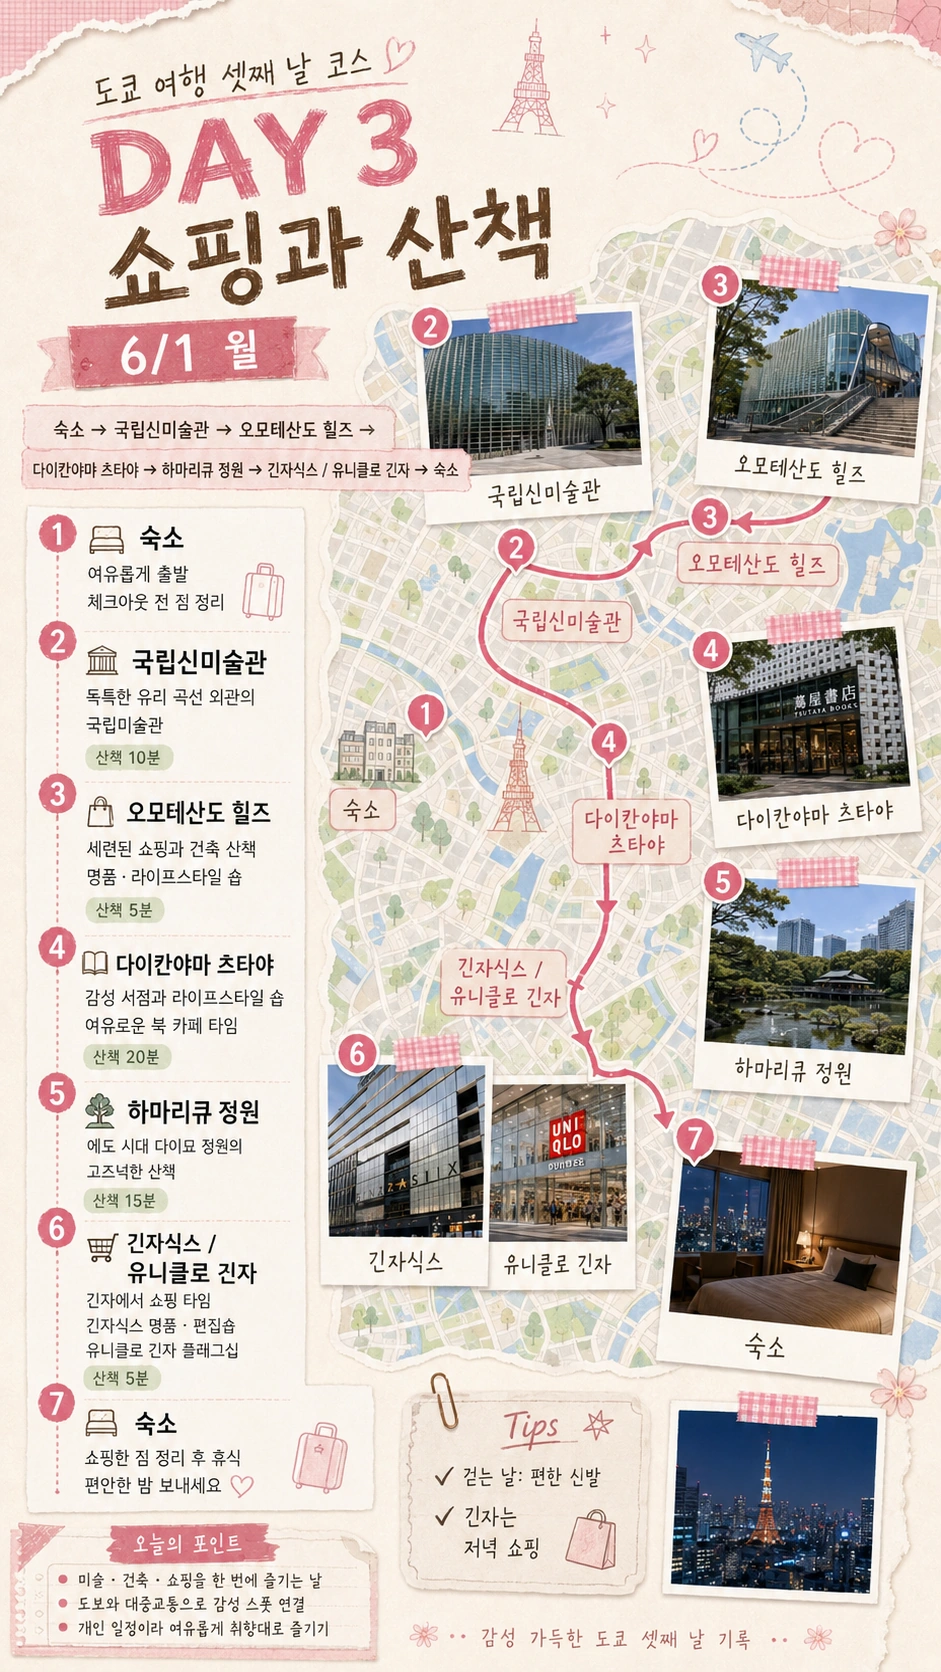
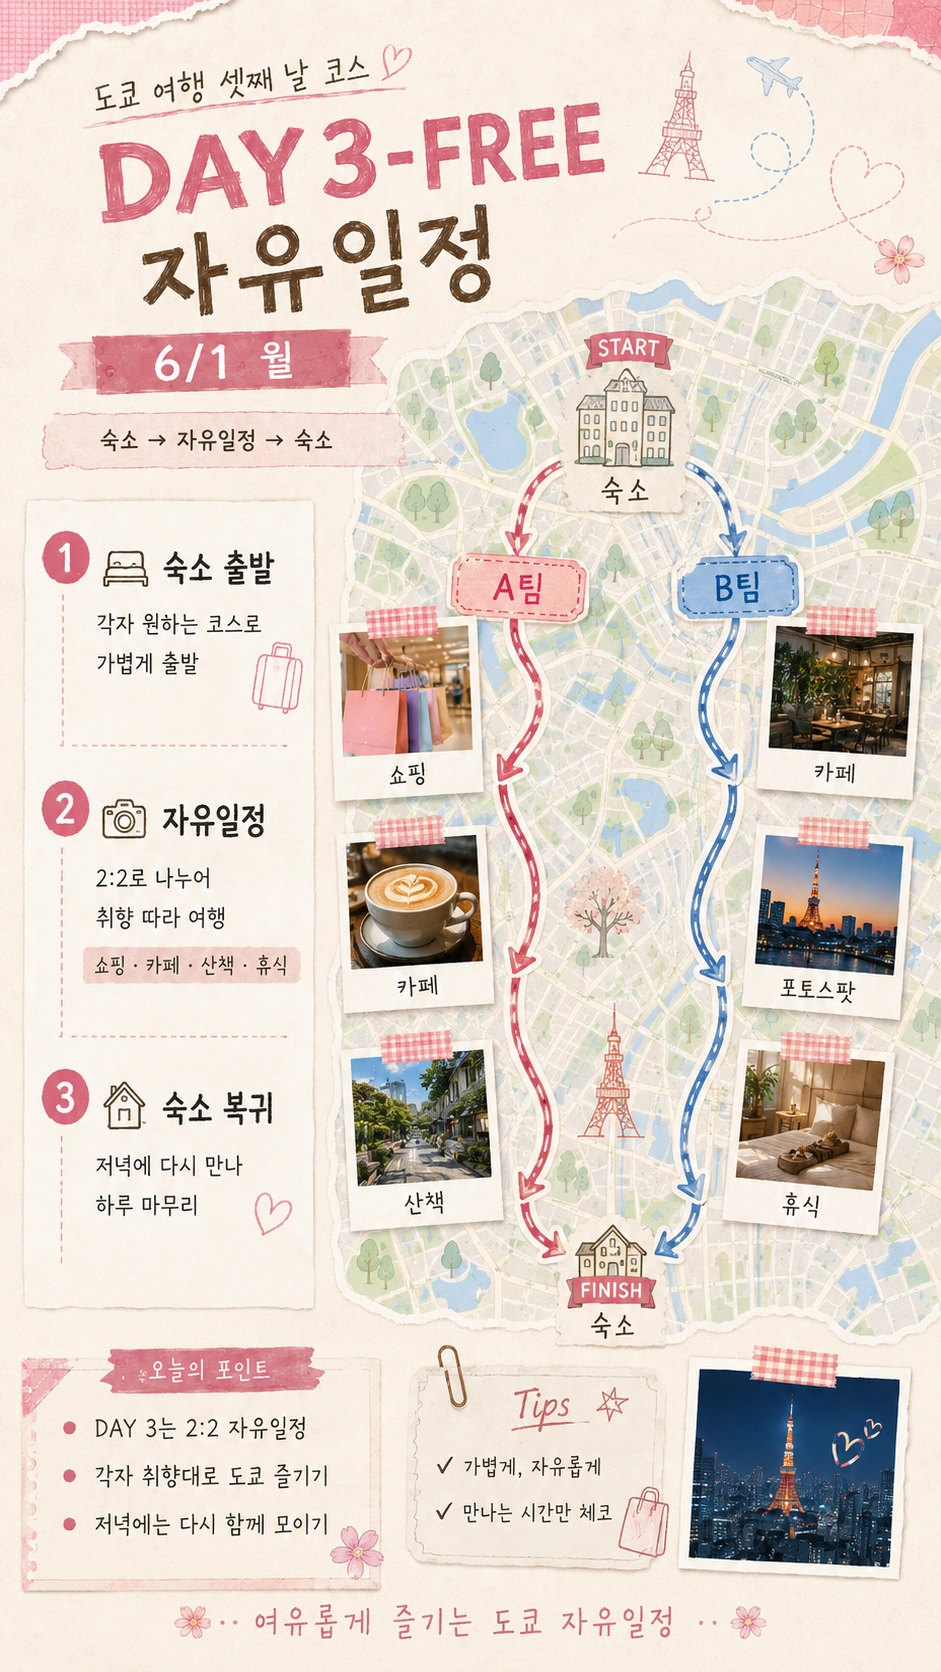
Make day 3 a private free day

diff --git a/index.html b/index.html
@@ -1101,20 +1101,6 @@
       harryEmbed: "https://maps.google.com/maps?q=Warner%20Bros.%20Studio%20Tour%20Tokyo&z=15&output=embed",
       shibuyaSky: "https://www.google.com/maps/search/?api=1&query=SHIBUYA+SKY",
       shibuyaSkyEmbed: "https://maps.google.com/maps?q=SHIBUYA%20SKY&z=16&output=embed",
-      nact: "https://www.google.com/maps/search/?api=1&query=The+National+Art+Center+Tokyo",
-      nactEmbed: "https://maps.google.com/maps?q=The%20National%20Art%20Center%20Tokyo&z=16&output=embed",
-      omotesandoHills: "https://www.google.com/maps/search/?api=1&query=Omotesando+Hills",
-      omotesandoHillsEmbed: "https://maps.google.com/maps?q=Omotesando%20Hills&z=16&output=embed",
-      daikanyamaTsutaya: "https://www.google.com/maps/search/?api=1&query=Daikanyama+T-SITE+Tsutaya+Books",
-      daikanyamaTsutayaEmbed: "https://maps.google.com/maps?q=Daikanyama%20T-SITE%20Tsutaya%20Books&z=16&output=embed",
-      hamarikyu: "https://www.google.com/maps/search/?api=1&query=Hama-rikyu+Gardens",
-      hamarikyuEmbed: "https://maps.google.com/maps?q=Hama-rikyu%20Gardens&z=16&output=embed",
-      ginza: "https://www.google.com/maps/search/?api=1&query=Ginza+Tokyo+shopping",
-      ginzaEmbed: "https://maps.google.com/maps?q=Ginza%20Tokyo&z=14&output=embed",
-      ginzaSix: "https://www.google.com/maps/search/?api=1&query=GINZA+SIX",
-      ginzaSixEmbed: "https://maps.google.com/maps?q=GINZA%20SIX&z=16&output=embed",
-      uniqloGinza: "https://www.google.com/maps/search/?api=1&query=UNIQLO+Ginza",
-      uniqloGinzaEmbed: "https://maps.google.com/maps?q=UNIQLO%20Ginza&z=16&output=embed",
       nezuMuseum: "https://www.google.com/maps/search/?api=1&query=Nezu+Museum",
       nezuMuseumEmbed: "https://maps.google.com/maps?q=Nezu%20Museum&z=16&output=embed",
       nezuCafe: "https://www.google.com/maps/search/?api=1&query=Nezu+Cafe+Tokyo",
@@ -1127,9 +1113,6 @@
       day2All: "https://www.google.com/maps/dir/?api=1&origin=Comfort+Inn+Tokyo+Roppongi&destination=Comfort+Inn+Tokyo+Roppongi&waypoints=Warner+Bros.+Studio+Tour+Tokyo%7CSHIBUYA+SKY&travelmode=transit",
       day2Harry: "https://www.google.com/maps/dir/?api=1&origin=Comfort+Inn+Tokyo+Roppongi&destination=Warner+Bros.+Studio+Tour+Tokyo&travelmode=transit",
       day2Shibuya: "https://www.google.com/maps/dir/?api=1&origin=Warner+Bros.+Studio+Tour+Tokyo&destination=SHIBUYA+SKY&travelmode=transit",
-      day3All: "https://www.google.com/maps/dir/?api=1&origin=Comfort+Inn+Tokyo+Roppongi&destination=Comfort+Inn+Tokyo+Roppongi&waypoints=The+National+Art+Center+Tokyo%7COmotesando+Hills%7CDaikanyama+T-SITE+Tsutaya+Books%7CHama-rikyu+Gardens%7CGINZA+SIX%7CUNIQLO+Ginza&travelmode=transit",
-      day3West: "https://www.google.com/maps/dir/?api=1&origin=Comfort+Inn+Tokyo+Roppongi&destination=Daikanyama+T-SITE+Tsutaya+Books&waypoints=The+National+Art+Center+Tokyo%7COmotesando+Hills&travelmode=transit",
-      day3Ginza: "https://www.google.com/maps/dir/?api=1&origin=Hama-rikyu+Gardens&destination=UNIQLO+Ginza&waypoints=GINZA+SIX&travelmode=walking",
       day4All: "https://www.google.com/maps/dir/?api=1&origin=Comfort+Inn+Tokyo+Roppongi&destination=Narita+Airport+Terminal+1&waypoints=Nezu+Museum%7CNezu+Cafe%7CTokyo+Station&travelmode=transit",
       day4Nezu: "https://www.google.com/maps/dir/?api=1&origin=Comfort+Inn+Tokyo+Roppongi&destination=Nezu+Museum&travelmode=transit",
       day4Airport: "https://www.google.com/maps/dir/?api=1&origin=Tokyo+Station&destination=Narita+Airport+Terminal+1&travelmode=transit"
@@ -1318,91 +1301,57 @@
       {
         id: "day3",
         label: "Day 3",
+        visibility: "private",
         date: "6/1 월",
-        title: "산책",
-        narrative: "롯폰기에서 시작해 오모테산도와 다이칸야마를 보고, 하마리큐를 거쳐 긴자에서 마무리하는 날.",
-        times: [["10:00", "국립신미술관"], ["15:30", "하마리큐"], ["17:15", "긴자"]],
-        route: ["숙소", "국립신미술관", "오모테산도", "다이칸야마", "하마리큐", "긴자", "숙소"],
+        title: "자유일정",
+        narrative: "셋째 날은 각자 취향대로 도쿄를 즐기는 자유여행 날. 세부 코스는 비공개로 두고, 흐름만 숙소 출발과 복귀 기준으로 확인한다.",
+        times: [["오전", "숙소 출발"], ["낮", "자유일정"], ["저녁", "숙소 복귀"]],
+        route: ["숙소", "자유일정", "숙소"],
         routeActions: [
-          ["🗺️ 전체", routes.day3All, true],
-          ["🚶 서쪽", routes.day3West, false],
-          ["🛍️ 긴자", routes.day3Ginza, false]
+          ["🏨 숙소", maps.hotel, true],
+          ["🧭 자유일정", maps.hotel, false]
         ],
         map: {
-          caption: "롯폰기 → 오모테산도 → 다이칸야마 → 하마리큐 → 긴자",
-          embed: "https://maps.google.com/maps?q=The%20National%20Art%20Center%20Tokyo%2C%20Omotesando%20Hills%2C%20Daikanyama%20T-SITE%2C%20Hama-rikyu%20Gardens%2C%20GINZA%20SIX&z=12&output=embed",
-          url: "https://www.google.com/maps/search/?api=1&query=The+National+Art+Center+Tokyo+Omotesando+Hills+Daikanyama+T-SITE+Hama-rikyu+Gardens+GINZA+SIX"
+          caption: "숙소 → 자유일정 → 숙소",
+          embed: maps.hotelEmbed,
+          url: maps.hotel
         },
         places: [
           {
-            icon: "museum",
-            name: "국립신미술관",
-            action: "롯폰기에서 하루를 조용하게 시작.",
-            time: "10:00",
-            caution: "화요일 휴관 · 입장은 폐관 30분 전까지",
-            tip: "전시를 길게 보면 뒤 일정이 밀림",
-            mapUrl: maps.nact,
-            embedUrl: maps.nactEmbed,
-            sources: [["공식", "https://www.nact.jp/english/information/"]]
-          },
-          {
-            icon: "shop",
-            name: "오모테산도 힐즈",
-            action: "건축과 쇼핑을 짧게 보는 구간.",
-            time: "11:30",
-            caution: "매장별 영업시간이 다를 수 있음",
-            tip: "길게 머물지 말고 다이칸야마로 이동",
-            mapUrl: maps.omotesandoHills,
-            embedUrl: maps.omotesandoHillsEmbed,
-            sources: [["공식", "https://www.omotesandohills.com/information/opening_hour.html"]]
+            icon: "hotel",
+            name: "숙소 출발",
+            action: "각자 원하는 코스로 가볍게 출발.",
+            time: "오전",
+            prepare: "휴대폰 배터리 · 교통카드",
+            caution: "서로 만나는 시간만 확인",
+            tip: "2:2 또는 개인 취향대로 움직이기",
+            mapUrl: maps.hotel,
+            embedUrl: maps.hotelEmbed
           },
           {
             icon: "cafe",
-            name: "다이칸야마 츠타야",
-            action: "서점과 카페 분위기를 보는 핵심 코스.",
-            time: "13:30",
-            caution: "점심/카페가 길어지면 하마리큐가 위험",
-            tip: "사진보다 쉬어가는 구간으로 사용",
-            mapUrl: maps.daikanyamaTsutaya,
-            embedUrl: maps.daikanyamaTsutayaEmbed,
-            sources: [["공식", "https://store.tsite.jp/daikanyama/english/"]]
+            name: "자유일정",
+            action: "쇼핑, 카페, 산책, 휴식 중 취향대로 선택.",
+            time: "낮",
+            caution: "세부 일정은 비공개",
+            tip: "가볍게 자유롭게, 무리하지 않기",
+            mapUrl: maps.hotel,
+            embedUrl: maps.hotelEmbed
           },
           {
-            icon: "walk",
-            name: "하마리큐 은사정원",
-            action: "긴자 가기 전 산책하는 정원.",
-            time: "15:30",
-            caution: "16:30 입장 마감",
-            tip: "늦으면 과감히 생략하고 긴자로 이동",
-            mapUrl: maps.hamarikyu,
-            embedUrl: maps.hamarikyuEmbed,
-            sources: [["공식", "https://www.tokyo-park.or.jp/teien/en/hama-rikyu/outline.html"]]
-          },
-          {
-            icon: "shop",
-            name: "긴자식스",
-            action: "긴자 쇼핑과 저녁 후보.",
-            time: "17:15",
-            caution: "일부 매장은 영업시간이 다를 수 있음",
-            tip: "식당가는 저녁 후보로 사용",
-            mapUrl: maps.ginzaSix,
-            embedUrl: maps.ginzaSixEmbed,
-            sources: [["공식", "https://ginza6.tokyo/hours"]]
-          },
-          {
-            icon: "shop",
-            name: "유니클로 긴자점",
-            action: "긴자에서 쇼핑 마무리.",
-            caution: "혼잡할 수 있음",
-            tip: "살 것만 정하고 짧게 보기",
-            mapUrl: maps.uniqloGinza,
-            embedUrl: maps.uniqloGinzaEmbed,
-            sources: [["참고", "https://www.ginza.jp/ja/landmark/9743"]]
+            icon: "hotel",
+            name: "숙소 복귀",
+            action: "저녁에는 다시 만나 하루를 마무리.",
+            time: "저녁",
+            caution: "복귀 시간 공유",
+            tip: "다음날 귀국 준비까지 같이 정리",
+            mapUrl: maps.hotel,
+            embedUrl: maps.hotelEmbed
           }
         ],
         extras: [
-          ["핵심", "하마리큐 16:30 입장 마감 때문에 긴자보다 먼저 간다."],
-          ["저녁", "긴자식스와 유니클로를 보고 숙소로 복귀."]
+          ["오늘의 포인트", "Day 3는 자유일정. 각자 취향대로 도쿄를 즐기고 저녁에 다시 모인다."],
+          ["주의", "세부 동선은 비공개 일정으로 페이지에는 노출하지 않는다."]
         ]
       },
       {

diff --git a/tokyo-trip-report.html b/tokyo-trip-report.html
@@ -1101,20 +1101,6 @@
       harryEmbed: "https://maps.google.com/maps?q=Warner%20Bros.%20Studio%20Tour%20Tokyo&z=15&output=embed",
       shibuyaSky: "https://www.google.com/maps/search/?api=1&query=SHIBUYA+SKY",
       shibuyaSkyEmbed: "https://maps.google.com/maps?q=SHIBUYA%20SKY&z=16&output=embed",
-      nact: "https://www.google.com/maps/search/?api=1&query=The+National+Art+Center+Tokyo",
-      nactEmbed: "https://maps.google.com/maps?q=The%20National%20Art%20Center%20Tokyo&z=16&output=embed",
-      omotesandoHills: "https://www.google.com/maps/search/?api=1&query=Omotesando+Hills",
-      omotesandoHillsEmbed: "https://maps.google.com/maps?q=Omotesando%20Hills&z=16&output=embed",
-      daikanyamaTsutaya: "https://www.google.com/maps/search/?api=1&query=Daikanyama+T-SITE+Tsutaya+Books",
-      daikanyamaTsutayaEmbed: "https://maps.google.com/maps?q=Daikanyama%20T-SITE%20Tsutaya%20Books&z=16&output=embed",
-      hamarikyu: "https://www.google.com/maps/search/?api=1&query=Hama-rikyu+Gardens",
-      hamarikyuEmbed: "https://maps.google.com/maps?q=Hama-rikyu%20Gardens&z=16&output=embed",
-      ginza: "https://www.google.com/maps/search/?api=1&query=Ginza+Tokyo+shopping",
-      ginzaEmbed: "https://maps.google.com/maps?q=Ginza%20Tokyo&z=14&output=embed",
-      ginzaSix: "https://www.google.com/maps/search/?api=1&query=GINZA+SIX",
-      ginzaSixEmbed: "https://maps.google.com/maps?q=GINZA%20SIX&z=16&output=embed",
-      uniqloGinza: "https://www.google.com/maps/search/?api=1&query=UNIQLO+Ginza",
-      uniqloGinzaEmbed: "https://maps.google.com/maps?q=UNIQLO%20Ginza&z=16&output=embed",
       nezuMuseum: "https://www.google.com/maps/search/?api=1&query=Nezu+Museum",
       nezuMuseumEmbed: "https://maps.google.com/maps?q=Nezu%20Museum&z=16&output=embed",
       nezuCafe: "https://www.google.com/maps/search/?api=1&query=Nezu+Cafe+Tokyo",
@@ -1127,9 +1113,6 @@
       day2All: "https://www.google.com/maps/dir/?api=1&origin=Comfort+Inn+Tokyo+Roppongi&destination=Comfort+Inn+Tokyo+Roppongi&waypoints=Warner+Bros.+Studio+Tour+Tokyo%7CSHIBUYA+SKY&travelmode=transit",
       day2Harry: "https://www.google.com/maps/dir/?api=1&origin=Comfort+Inn+Tokyo+Roppongi&destination=Warner+Bros.+Studio+Tour+Tokyo&travelmode=transit",
       day2Shibuya: "https://www.google.com/maps/dir/?api=1&origin=Warner+Bros.+Studio+Tour+Tokyo&destination=SHIBUYA+SKY&travelmode=transit",
-      day3All: "https://www.google.com/maps/dir/?api=1&origin=Comfort+Inn+Tokyo+Roppongi&destination=Comfort+Inn+Tokyo+Roppongi&waypoints=The+National+Art+Center+Tokyo%7COmotesando+Hills%7CDaikanyama+T-SITE+Tsutaya+Books%7CHama-rikyu+Gardens%7CGINZA+SIX%7CUNIQLO+Ginza&travelmode=transit",
-      day3West: "https://www.google.com/maps/dir/?api=1&origin=Comfort+Inn+Tokyo+Roppongi&destination=Daikanyama+T-SITE+Tsutaya+Books&waypoints=The+National+Art+Center+Tokyo%7COmotesando+Hills&travelmode=transit",
-      day3Ginza: "https://www.google.com/maps/dir/?api=1&origin=Hama-rikyu+Gardens&destination=UNIQLO+Ginza&waypoints=GINZA+SIX&travelmode=walking",
       day4All: "https://www.google.com/maps/dir/?api=1&origin=Comfort+Inn+Tokyo+Roppongi&destination=Narita+Airport+Terminal+1&waypoints=Nezu+Museum%7CNezu+Cafe%7CTokyo+Station&travelmode=transit",
       day4Nezu: "https://www.google.com/maps/dir/?api=1&origin=Comfort+Inn+Tokyo+Roppongi&destination=Nezu+Museum&travelmode=transit",
       day4Airport: "https://www.google.com/maps/dir/?api=1&origin=Tokyo+Station&destination=Narita+Airport+Terminal+1&travelmode=transit"
@@ -1318,91 +1301,57 @@
       {
         id: "day3",
         label: "Day 3",
+        visibility: "private",
         date: "6/1 월",
-        title: "산책",
-        narrative: "롯폰기에서 시작해 오모테산도와 다이칸야마를 보고, 하마리큐를 거쳐 긴자에서 마무리하는 날.",
-        times: [["10:00", "국립신미술관"], ["15:30", "하마리큐"], ["17:15", "긴자"]],
-        route: ["숙소", "국립신미술관", "오모테산도", "다이칸야마", "하마리큐", "긴자", "숙소"],
+        title: "자유일정",
+        narrative: "셋째 날은 각자 취향대로 도쿄를 즐기는 자유여행 날. 세부 코스는 비공개로 두고, 흐름만 숙소 출발과 복귀 기준으로 확인한다.",
+        times: [["오전", "숙소 출발"], ["낮", "자유일정"], ["저녁", "숙소 복귀"]],
+        route: ["숙소", "자유일정", "숙소"],
         routeActions: [
-          ["🗺️ 전체", routes.day3All, true],
-          ["🚶 서쪽", routes.day3West, false],
-          ["🛍️ 긴자", routes.day3Ginza, false]
+          ["🏨 숙소", maps.hotel, true],
+          ["🧭 자유일정", maps.hotel, false]
         ],
         map: {
-          caption: "롯폰기 → 오모테산도 → 다이칸야마 → 하마리큐 → 긴자",
-          embed: "https://maps.google.com/maps?q=The%20National%20Art%20Center%20Tokyo%2C%20Omotesando%20Hills%2C%20Daikanyama%20T-SITE%2C%20Hama-rikyu%20Gardens%2C%20GINZA%20SIX&z=12&output=embed",
-          url: "https://www.google.com/maps/search/?api=1&query=The+National+Art+Center+Tokyo+Omotesando+Hills+Daikanyama+T-SITE+Hama-rikyu+Gardens+GINZA+SIX"
+          caption: "숙소 → 자유일정 → 숙소",
+          embed: maps.hotelEmbed,
+          url: maps.hotel
         },
         places: [
           {
-            icon: "museum",
-            name: "국립신미술관",
-            action: "롯폰기에서 하루를 조용하게 시작.",
-            time: "10:00",
-            caution: "화요일 휴관 · 입장은 폐관 30분 전까지",
-            tip: "전시를 길게 보면 뒤 일정이 밀림",
-            mapUrl: maps.nact,
-            embedUrl: maps.nactEmbed,
-            sources: [["공식", "https://www.nact.jp/english/information/"]]
-          },
-          {
-            icon: "shop",
-            name: "오모테산도 힐즈",
-            action: "건축과 쇼핑을 짧게 보는 구간.",
-            time: "11:30",
-            caution: "매장별 영업시간이 다를 수 있음",
-            tip: "길게 머물지 말고 다이칸야마로 이동",
-            mapUrl: maps.omotesandoHills,
-            embedUrl: maps.omotesandoHillsEmbed,
-            sources: [["공식", "https://www.omotesandohills.com/information/opening_hour.html"]]
+            icon: "hotel",
+            name: "숙소 출발",
+            action: "각자 원하는 코스로 가볍게 출발.",
+            time: "오전",
+            prepare: "휴대폰 배터리 · 교통카드",
+            caution: "서로 만나는 시간만 확인",
+            tip: "2:2 또는 개인 취향대로 움직이기",
+            mapUrl: maps.hotel,
+            embedUrl: maps.hotelEmbed
           },
           {
             icon: "cafe",
-            name: "다이칸야마 츠타야",
-            action: "서점과 카페 분위기를 보는 핵심 코스.",
-            time: "13:30",
-            caution: "점심/카페가 길어지면 하마리큐가 위험",
-            tip: "사진보다 쉬어가는 구간으로 사용",
-            mapUrl: maps.daikanyamaTsutaya,
-            embedUrl: maps.daikanyamaTsutayaEmbed,
-            sources: [["공식", "https://store.tsite.jp/daikanyama/english/"]]
+            name: "자유일정",
+            action: "쇼핑, 카페, 산책, 휴식 중 취향대로 선택.",
+            time: "낮",
+            caution: "세부 일정은 비공개",
+            tip: "가볍게 자유롭게, 무리하지 않기",
+            mapUrl: maps.hotel,
+            embedUrl: maps.hotelEmbed
           },
           {
-            icon: "walk",
-            name: "하마리큐 은사정원",
-            action: "긴자 가기 전 산책하는 정원.",
-            time: "15:30",
-            caution: "16:30 입장 마감",
-            tip: "늦으면 과감히 생략하고 긴자로 이동",
-            mapUrl: maps.hamarikyu,
-            embedUrl: maps.hamarikyuEmbed,
-            sources: [["공식", "https://www.tokyo-park.or.jp/teien/en/hama-rikyu/outline.html"]]
-          },
-          {
-            icon: "shop",
-            name: "긴자식스",
-            action: "긴자 쇼핑과 저녁 후보.",
-            time: "17:15",
-            caution: "일부 매장은 영업시간이 다를 수 있음",
-            tip: "식당가는 저녁 후보로 사용",
-            mapUrl: maps.ginzaSix,
-            embedUrl: maps.ginzaSixEmbed,
-            sources: [["공식", "https://ginza6.tokyo/hours"]]
-          },
-          {
-            icon: "shop",
-            name: "유니클로 긴자점",
-            action: "긴자에서 쇼핑 마무리.",
-            caution: "혼잡할 수 있음",
-            tip: "살 것만 정하고 짧게 보기",
-            mapUrl: maps.uniqloGinza,
-            embedUrl: maps.uniqloGinzaEmbed,
-            sources: [["참고", "https://www.ginza.jp/ja/landmark/9743"]]
+            icon: "hotel",
+            name: "숙소 복귀",
+            action: "저녁에는 다시 만나 하루를 마무리.",
+            time: "저녁",
+            caution: "복귀 시간 공유",
+            tip: "다음날 귀국 준비까지 같이 정리",
+            mapUrl: maps.hotel,
+            embedUrl: maps.hotelEmbed
           }
         ],
         extras: [
-          ["핵심", "하마리큐 16:30 입장 마감 때문에 긴자보다 먼저 간다."],
-          ["저녁", "긴자식스와 유니클로를 보고 숙소로 복귀."]
+          ["오늘의 포인트", "Day 3는 자유일정. 각자 취향대로 도쿄를 즐기고 저녁에 다시 모인다."],
+          ["주의", "세부 동선은 비공개 일정으로 페이지에는 노출하지 않는다."]
         ]
       },
       {